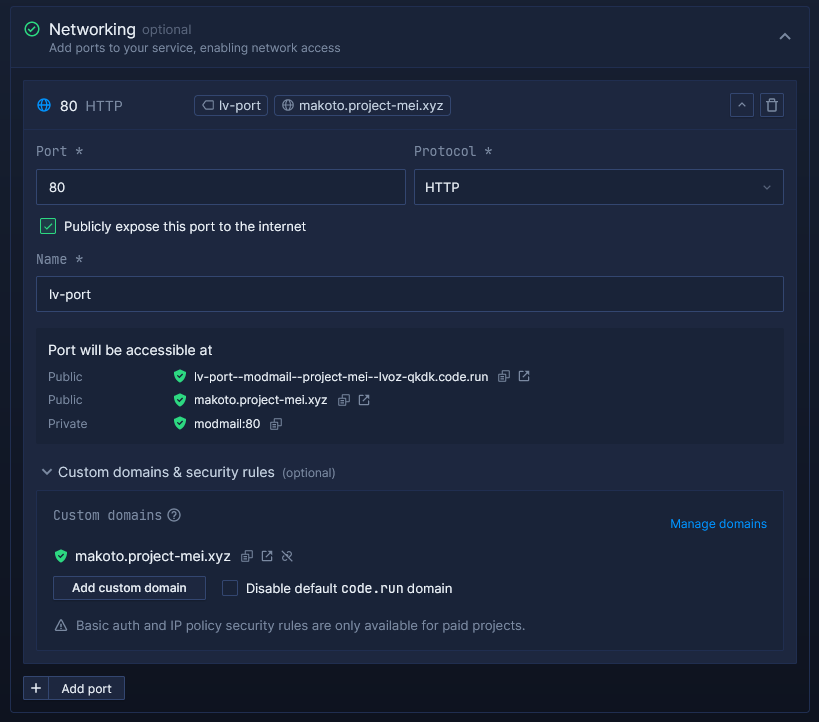
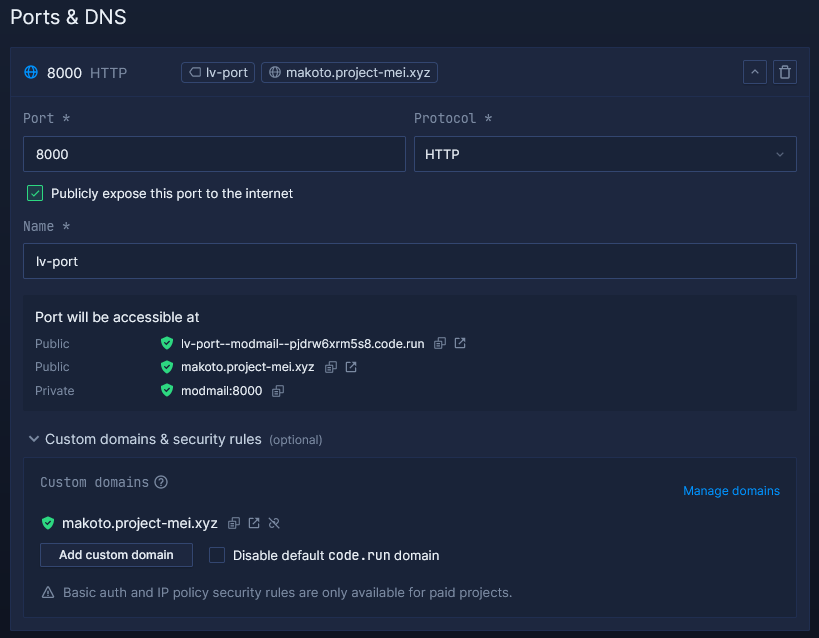
docs: update blog post

diff --git a/docs/posts/2023-08-02-hosting-modmail-on-northflank.md b/docs/posts/2023-08-02-hosting-modmail-on-northflank.md
@@ -79,9 +79,9 @@ If you wanna check the console logs, you can view them by the auto-generated con
 
 ## But what about logviewer?
 
-I recommend using my logviewer plugin due to significantly less hassle on setting it up. Find out how to install it [here](https://github.com/raidensakura/modmail-plugins).
+I recommend using my logviewer plugin since it's significantly easier to set up. Find out how to install it [here](https://github.com/raidensakura/modmail-plugins).
 
-After you have it installed, simply copy these settings in the network tab and restart your Modmail service for the changes to apply. You can also link a custom domain if you own one and know how to link it. Make sure to also add `PORT` variable in your environment with `80` as the value. This will make logviewer listen on the default HTTP port which is recommended.
+After you have it installed, simply copy these settings in the network tab and restart your Modmail service for the changes to apply. You can also link a custom domain if you own one and know how to link it.
 
 ![Image Example](/img/in-post/2023-08-02/networking.png)
 
